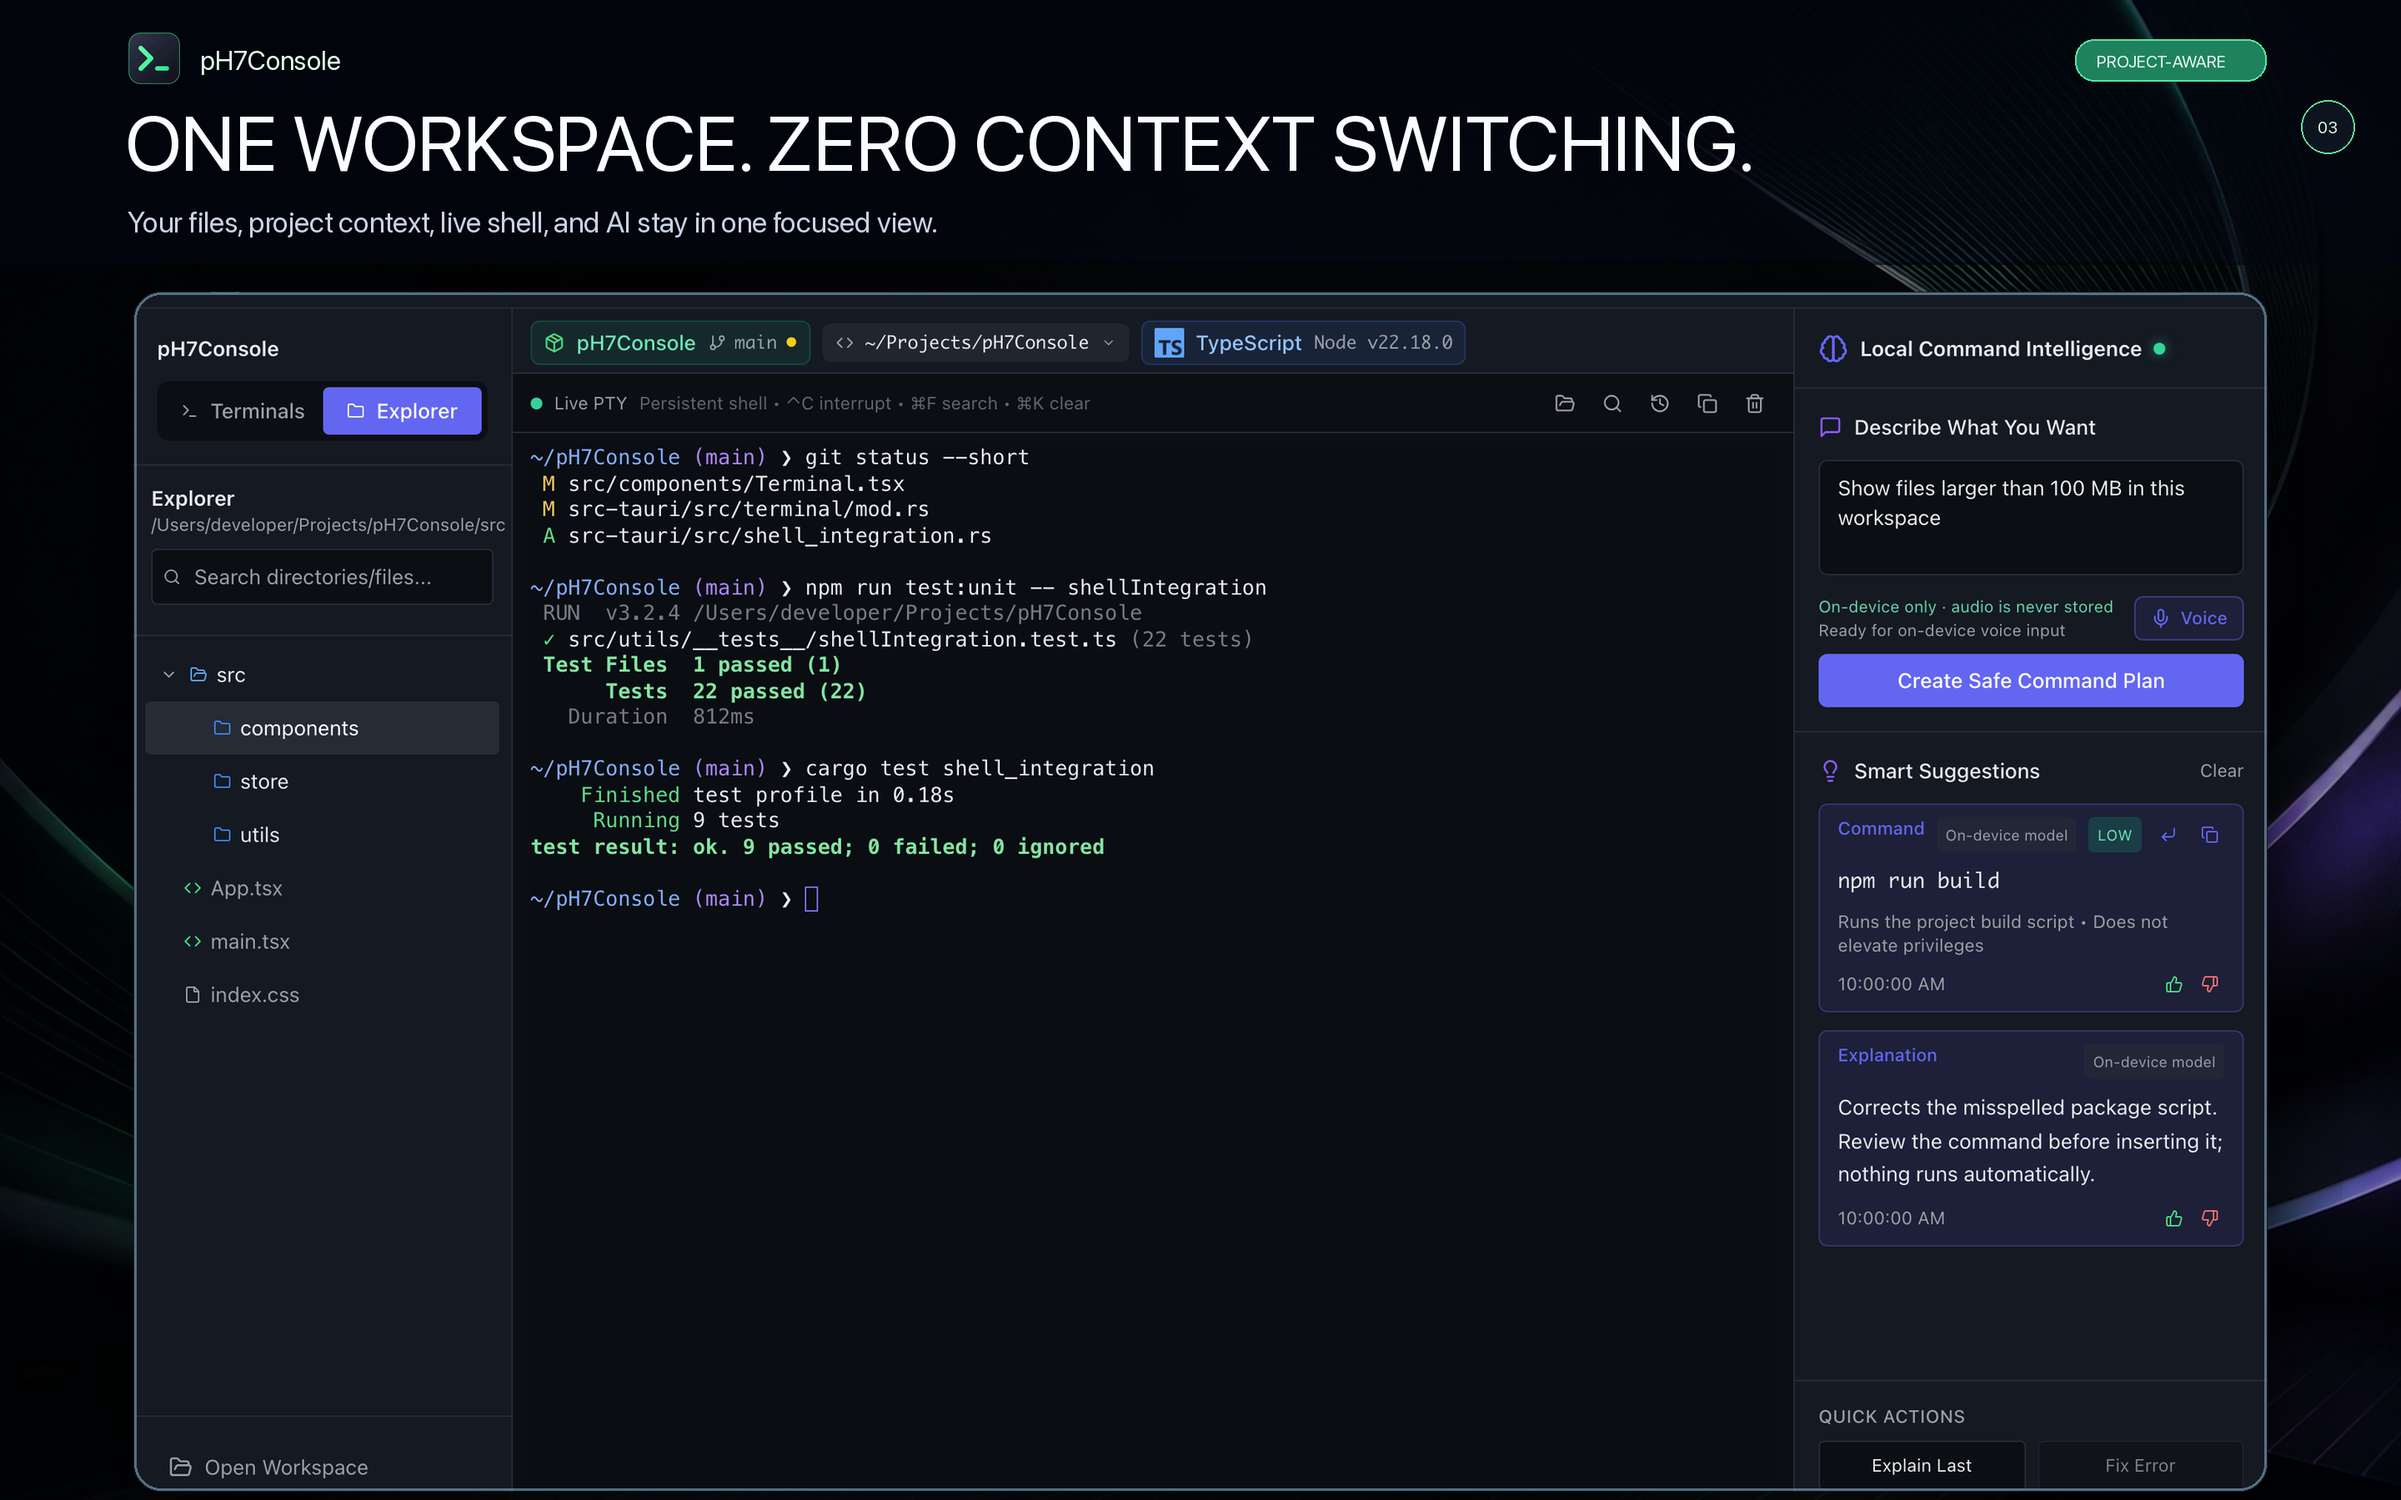
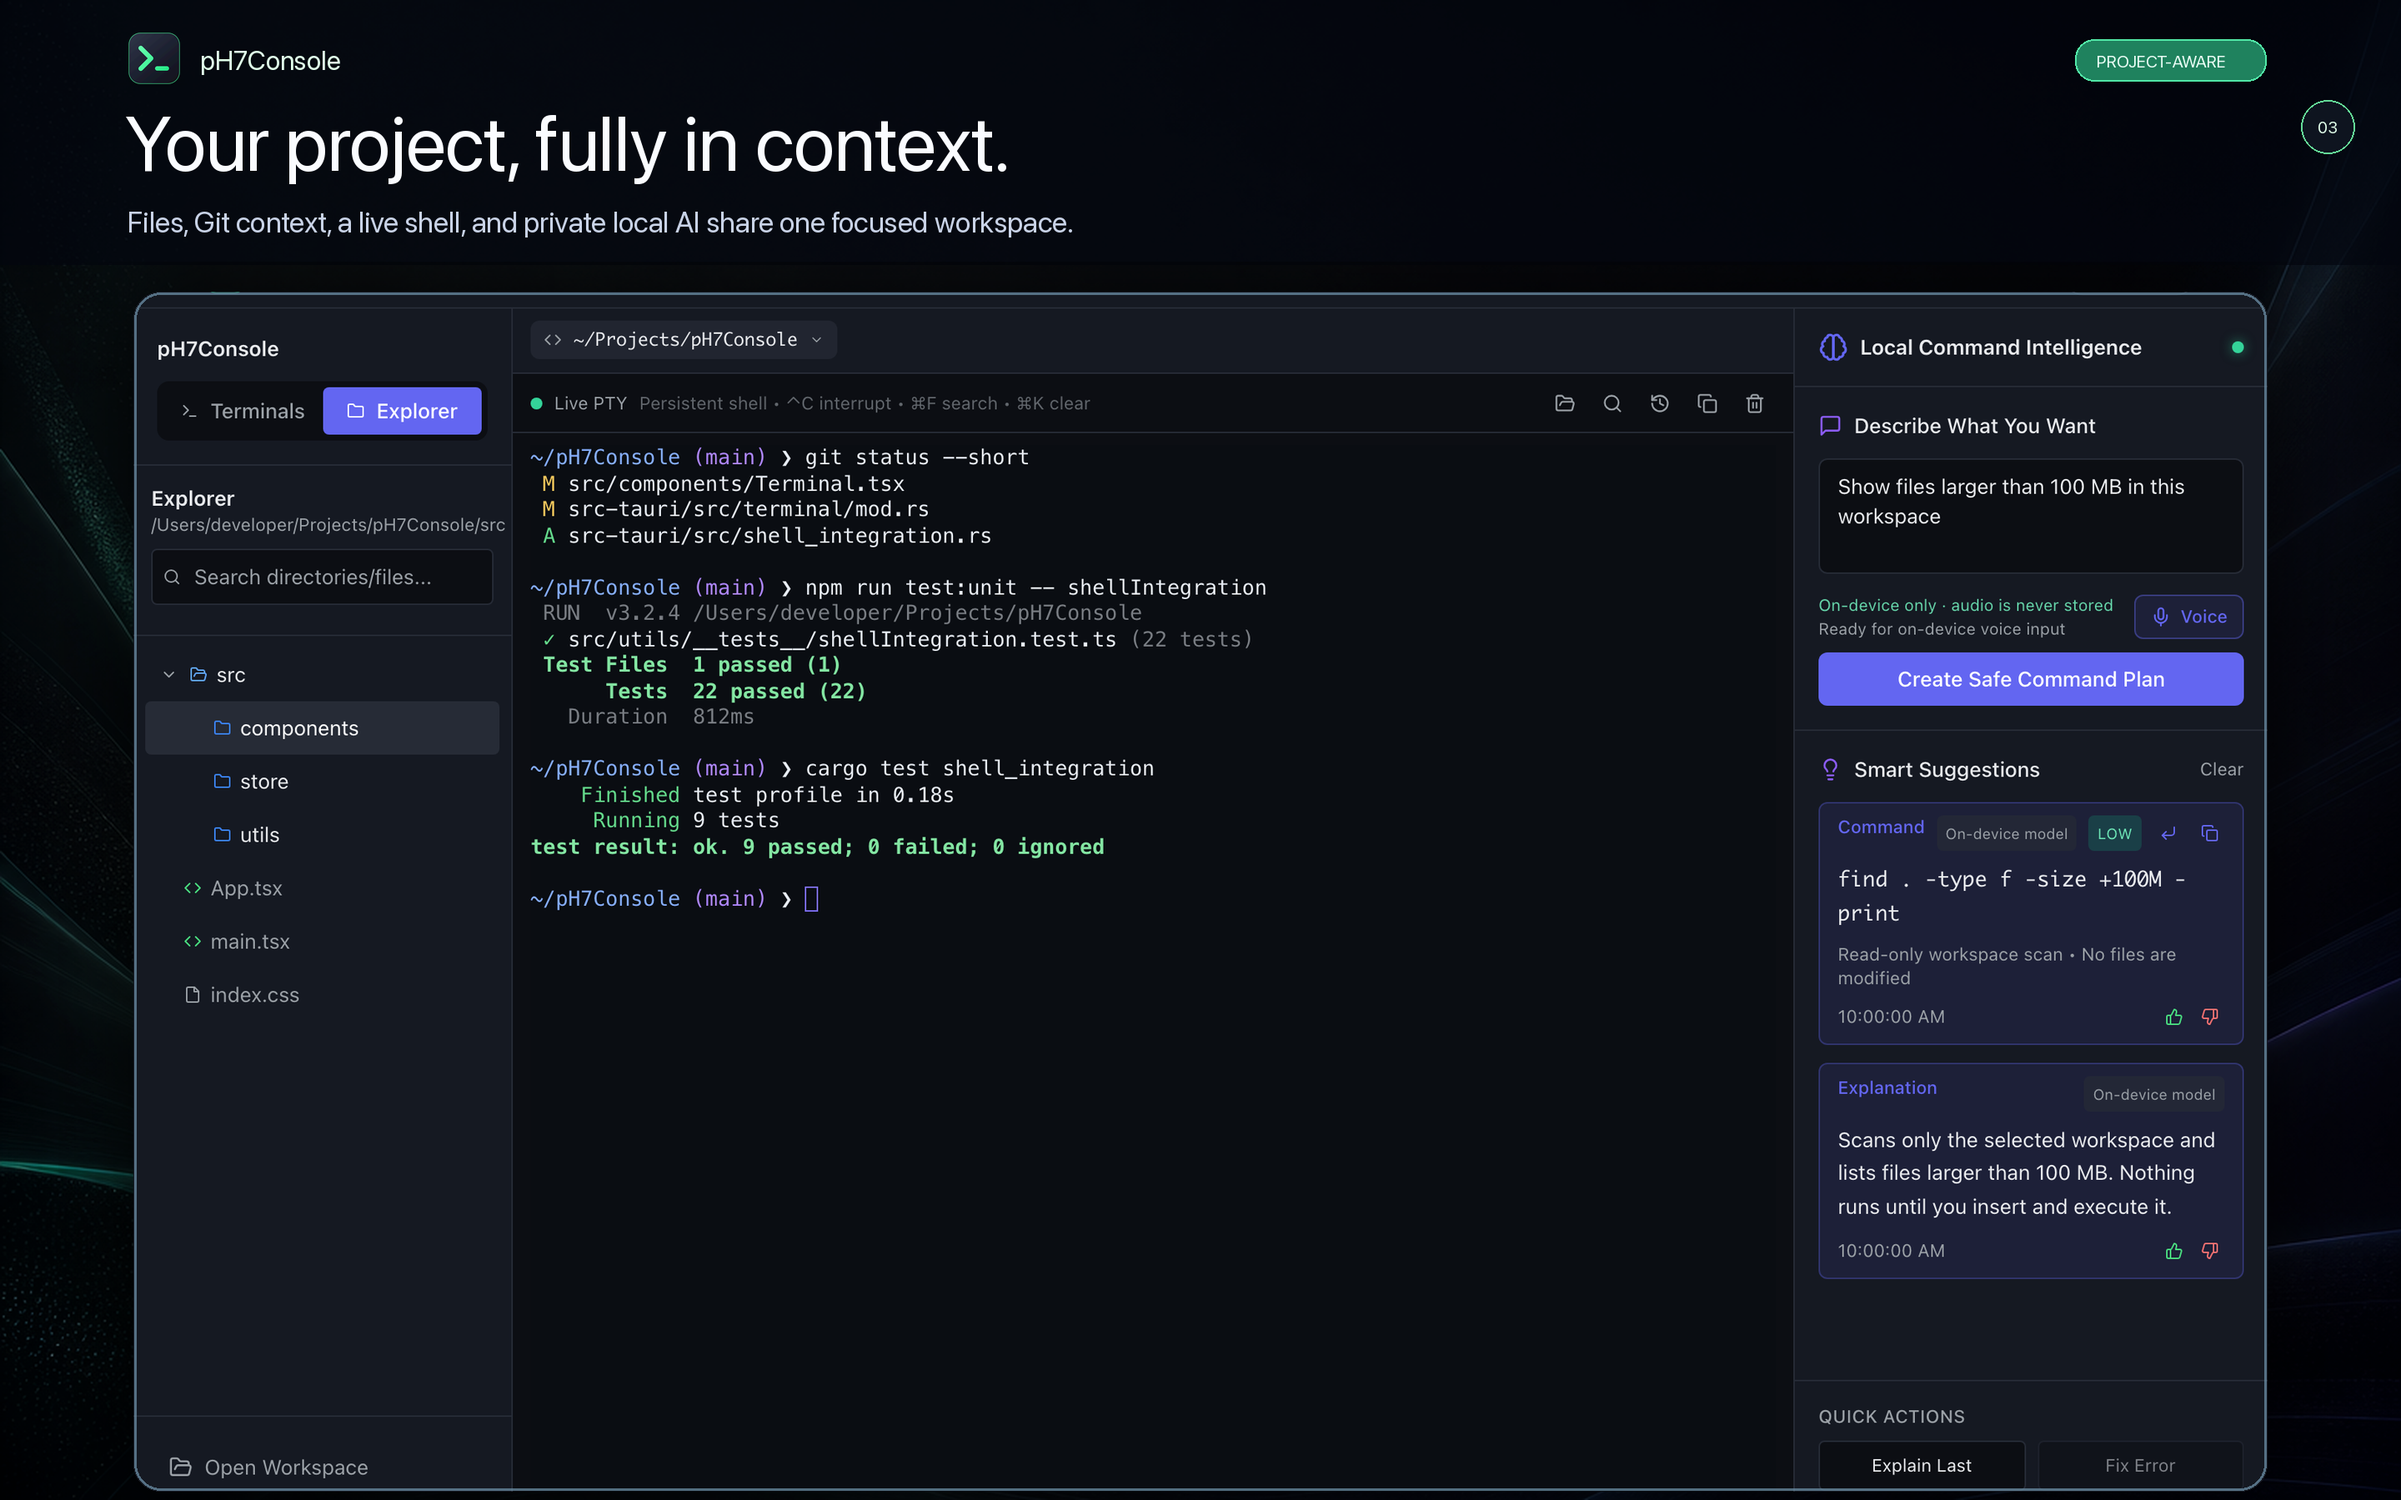
feat: refresh App Store screenshots to showcase real workflows

diff --git a/scripts/generate-appstore-assets.py b/scripts/generate-appstore-assets.py
@@ -8,7 +8,7 @@ from PIL import Image, ImageChops, ImageDraw, ImageEnhance, ImageFilter, ImageFo
 
 
 ROOT = Path(__file__).resolve().parents[1]
-BACKGROUND = ROOT / "app-store/assets/store-background-v3.png"
+BACKGROUND = ROOT / "app-store/assets/store-background-v4.png"
 ICON = ROOT / "app-store/assets/AppIcon-1024.png"
 RAW = ROOT / "app-store/raw-screenshots"
 OUTPUT = ROOT / "app-store/screenshots"
@@ -20,40 +20,40 @@ APP_TOP = 350
 CAPTURES = [
     (
         "01-private-local-assistance.png",
-        "ASK IN ENGLISH. GET THE COMMAND.",
-        "Private local AI builds a safe command plan you review before anything runs.",
+        "Ask naturally. Stay in control.",
+        "Private local AI turns intent into a risk-rated command plan. Nothing runs until you choose.",
         "ON-DEVICE AI",
         "01-private-command-console.png",
         (0, 65, 2880, 1685),
     ),
     (
         "02-local-error-fix.png",
-        "ERRORS EXPLAINED. FIXES READY.",
-        "Understand the failure, review the correction, and keep moving.",
+        "Fix errors without breaking flow.",
+        "See the failure, review a precise correction, and keep moving.",
         "LOCAL ERROR RECOVERY",
         "02-local-error-guidance.png",
         (510, 65, 2880, 1415),
     ),
     (
         "03-workspace-explorer.png",
-        "ONE WORKSPACE. ZERO CONTEXT SWITCHING.",
-        "Your files, project context, live shell, and AI stay in one focused view.",
+        "Your project, fully in context.",
+        "Files, Git context, a live shell, and private local AI share one focused workspace.",
         "PROJECT-AWARE",
         "03-private-workspace-explorer.png",
         (0, 65, 2880, 1685),
     ),
     (
         "04-searchable-history.png",
-        "FIND ANY COMMAND IN SECONDS.",
-        "Search encrypted local history with result and timing at a glance.",
+        "Find any command in seconds.",
+        "Search encrypted local history with status and timing at a glance.",
         "ENCRYPTED ON THIS MAC",
         "04-searchable-command-history.png",
         (300, 205, 2580, 1480),
     ),
     (
         "05-privacy-settings.png",
-        "LOCAL AI. ZERO CLOUD REQUIRED.",
-        "No account. No telemetry. Your terminal context stays on your Mac.",
+        "Local intelligence. Zero cloud.",
+        "No account. No telemetry. Your terminal context stays on this Mac.",
         "PRIVATE BY DESIGN",
         "05-private-by-design.png",
         (420, 170, 2460, 1510),
